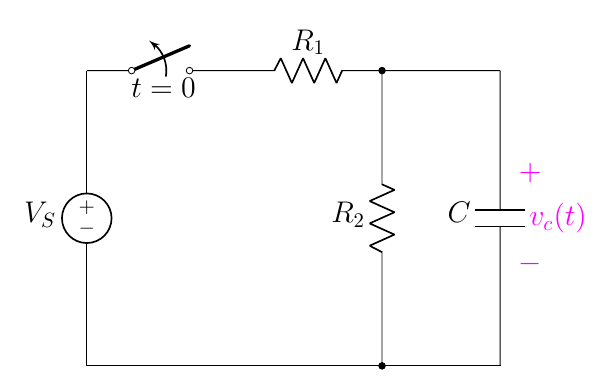
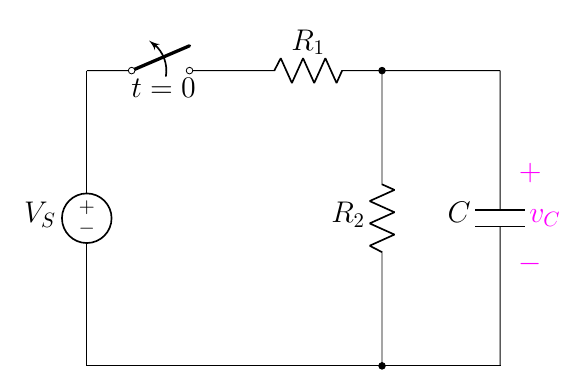
7.6

diff --git a/2.2 Source-Free RC/7.2 Source-Free RC/7.6(new).tex b/2.2 Source-Free RC/7.2 Source-Free RC/7.6(new).tex
@@ -26,7 +26,7 @@
     %%% find %%%
     \node at(1.3,4.7) []{$t=0$};
     \draw[magenta](7.2,1.5)
-        to[open,v>=$v_c(t)$] ++(0,2);
+        to[open,v>=$v_C$] ++(0,2);
 
 \end{circuitikz}
 \end{document}
